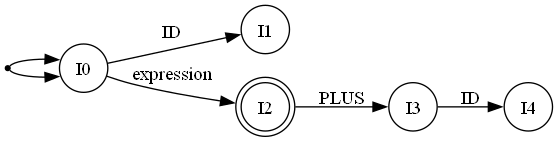
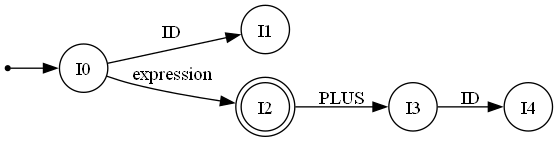
final version of code

Changed region(s): [[0.0, 0.3662, 0.1219, 0.5915]]

diff --git a/src/directDfa/directDfaBuilder.py b/src/directDfa/directDfaBuilder.py
@@ -160,20 +160,21 @@ def displayLR0(dfa, constructionMethod):
     graph = Digraph('LR0', filename=dotFilePath, format='png')
     graph.attr(rankdir='LR')
 
+    # create a starting point
     graph.node('start', shape='point')
     graph.edge('start', str(dfa.initialState))
 
     for state in dfa.states:
+        # determine the shape of the state node (doublecircle for accepted states)
         shape = 'doublecircle' if state in dfa.acceptedStates else 'circle'
         graph.node(str(state), shape=shape)
 
-        if state == dfa.initialState:
-            graph.edge('start', str(state))
+    # add edges between nodes
+    for explicitTransition in dfa.explicitTransitions:
+        origin, explicitSymbol, destiny = explicitTransition.inState, explicitTransition.symbol, explicitTransition.fnState
+        graph.edge(str(origin), str(destiny), label=str(explicitSymbol))
 
-    for explicitTransitions in dfa.explicitTransitions:
-        origin, explicitSymbols, destiny = explicitTransitions.inState, explicitTransitions.symbol, explicitTransitions.fnState
-        graph.edge(str(origin), str(destiny), label=str(explicitSymbols))
-        
+    # render the graph to a file and optionally view it
     graph.render(view=True)
     
 # ------- display the LR0 diagram -------
@@ -189,27 +190,27 @@ def displayLR0Diagram(dfa, constructionMethod, descriptions=None):
     graph.edge('start', str(dfa.initialState))
 
     for state in dfa.states:
-        # Initialize the label with the state name
+        # initialize the label with the state name
         label = f'{state}'
 
-        # Check if the state has a description and it's not None
+        # check if the state has a description and it's not None
         if descriptions and state in descriptions and descriptions[state] is not None:
-            # Replace newlines with HTML line breaks for Graphviz
+            # replace newlines with HTML line breaks for Graphviz
             description = descriptions[state].replace('\n', '<BR/>')
-            # Append the description to the label
+            # append the description to the label
             label += f'<BR/><BR/>{description}'
 
-        # Determine the shape of the node
+        # determine the shape of the node
         shape = 'doublecircle' if state in dfa.acceptedStates else 'circle'
 
-        # Add the node to the graph with an HTML-like label
+        # add the node to the graph with an HTML-like label
         graph.node(str(state), label=f'<{label}>', shape=shape)
 
-    # Add edges between nodes
+    # add edges between nodes
     for transition in dfa.explicitTransitions:
-        if transition.symbol is not None:  # Make sure the transition symbol is not None
+        if transition.symbol is not None:
             origin, symbol, destiny = transition.inState, transition.symbol, transition.fnState
             graph.edge(str(origin), str(destiny), label=str(symbol))
 
-    # Render the graph to a file and optionally view it
+    # render the graph to a file and optionally view it
     graph.render(view=True)

diff --git a/src/lexicalAnalyzer/ui.py b/src/lexicalAnalyzer/ui.py
@@ -517,13 +517,13 @@ class syntaxAnalyzerUi(tk.Tk):
             parserInstance.getGrammarSymbols()
             print("\n------ First Sets ------")
             for symbol in parserInstance.grammarSymbols:
-                first_set = parserInstance.first(symbol)
-                print(f"First({symbol}): {first_set}")
+                firstSet = parserInstance.first(symbol)
+                print(f"First({symbol}): {firstSet}")
 
             print("\n------ Following Sets ------")
             for symbol in parserInstance.grammarSymbols:
-                following_set = parserInstance.following(symbol)
-                print(f"Following({symbol}): {following_set}")
+                followingSet = parserInstance.following(symbol)
+                print(f"Following({symbol}): {followingSet}")
 
             print("\n✓ LR0 automaton & diagram created successfully !\n")
         
